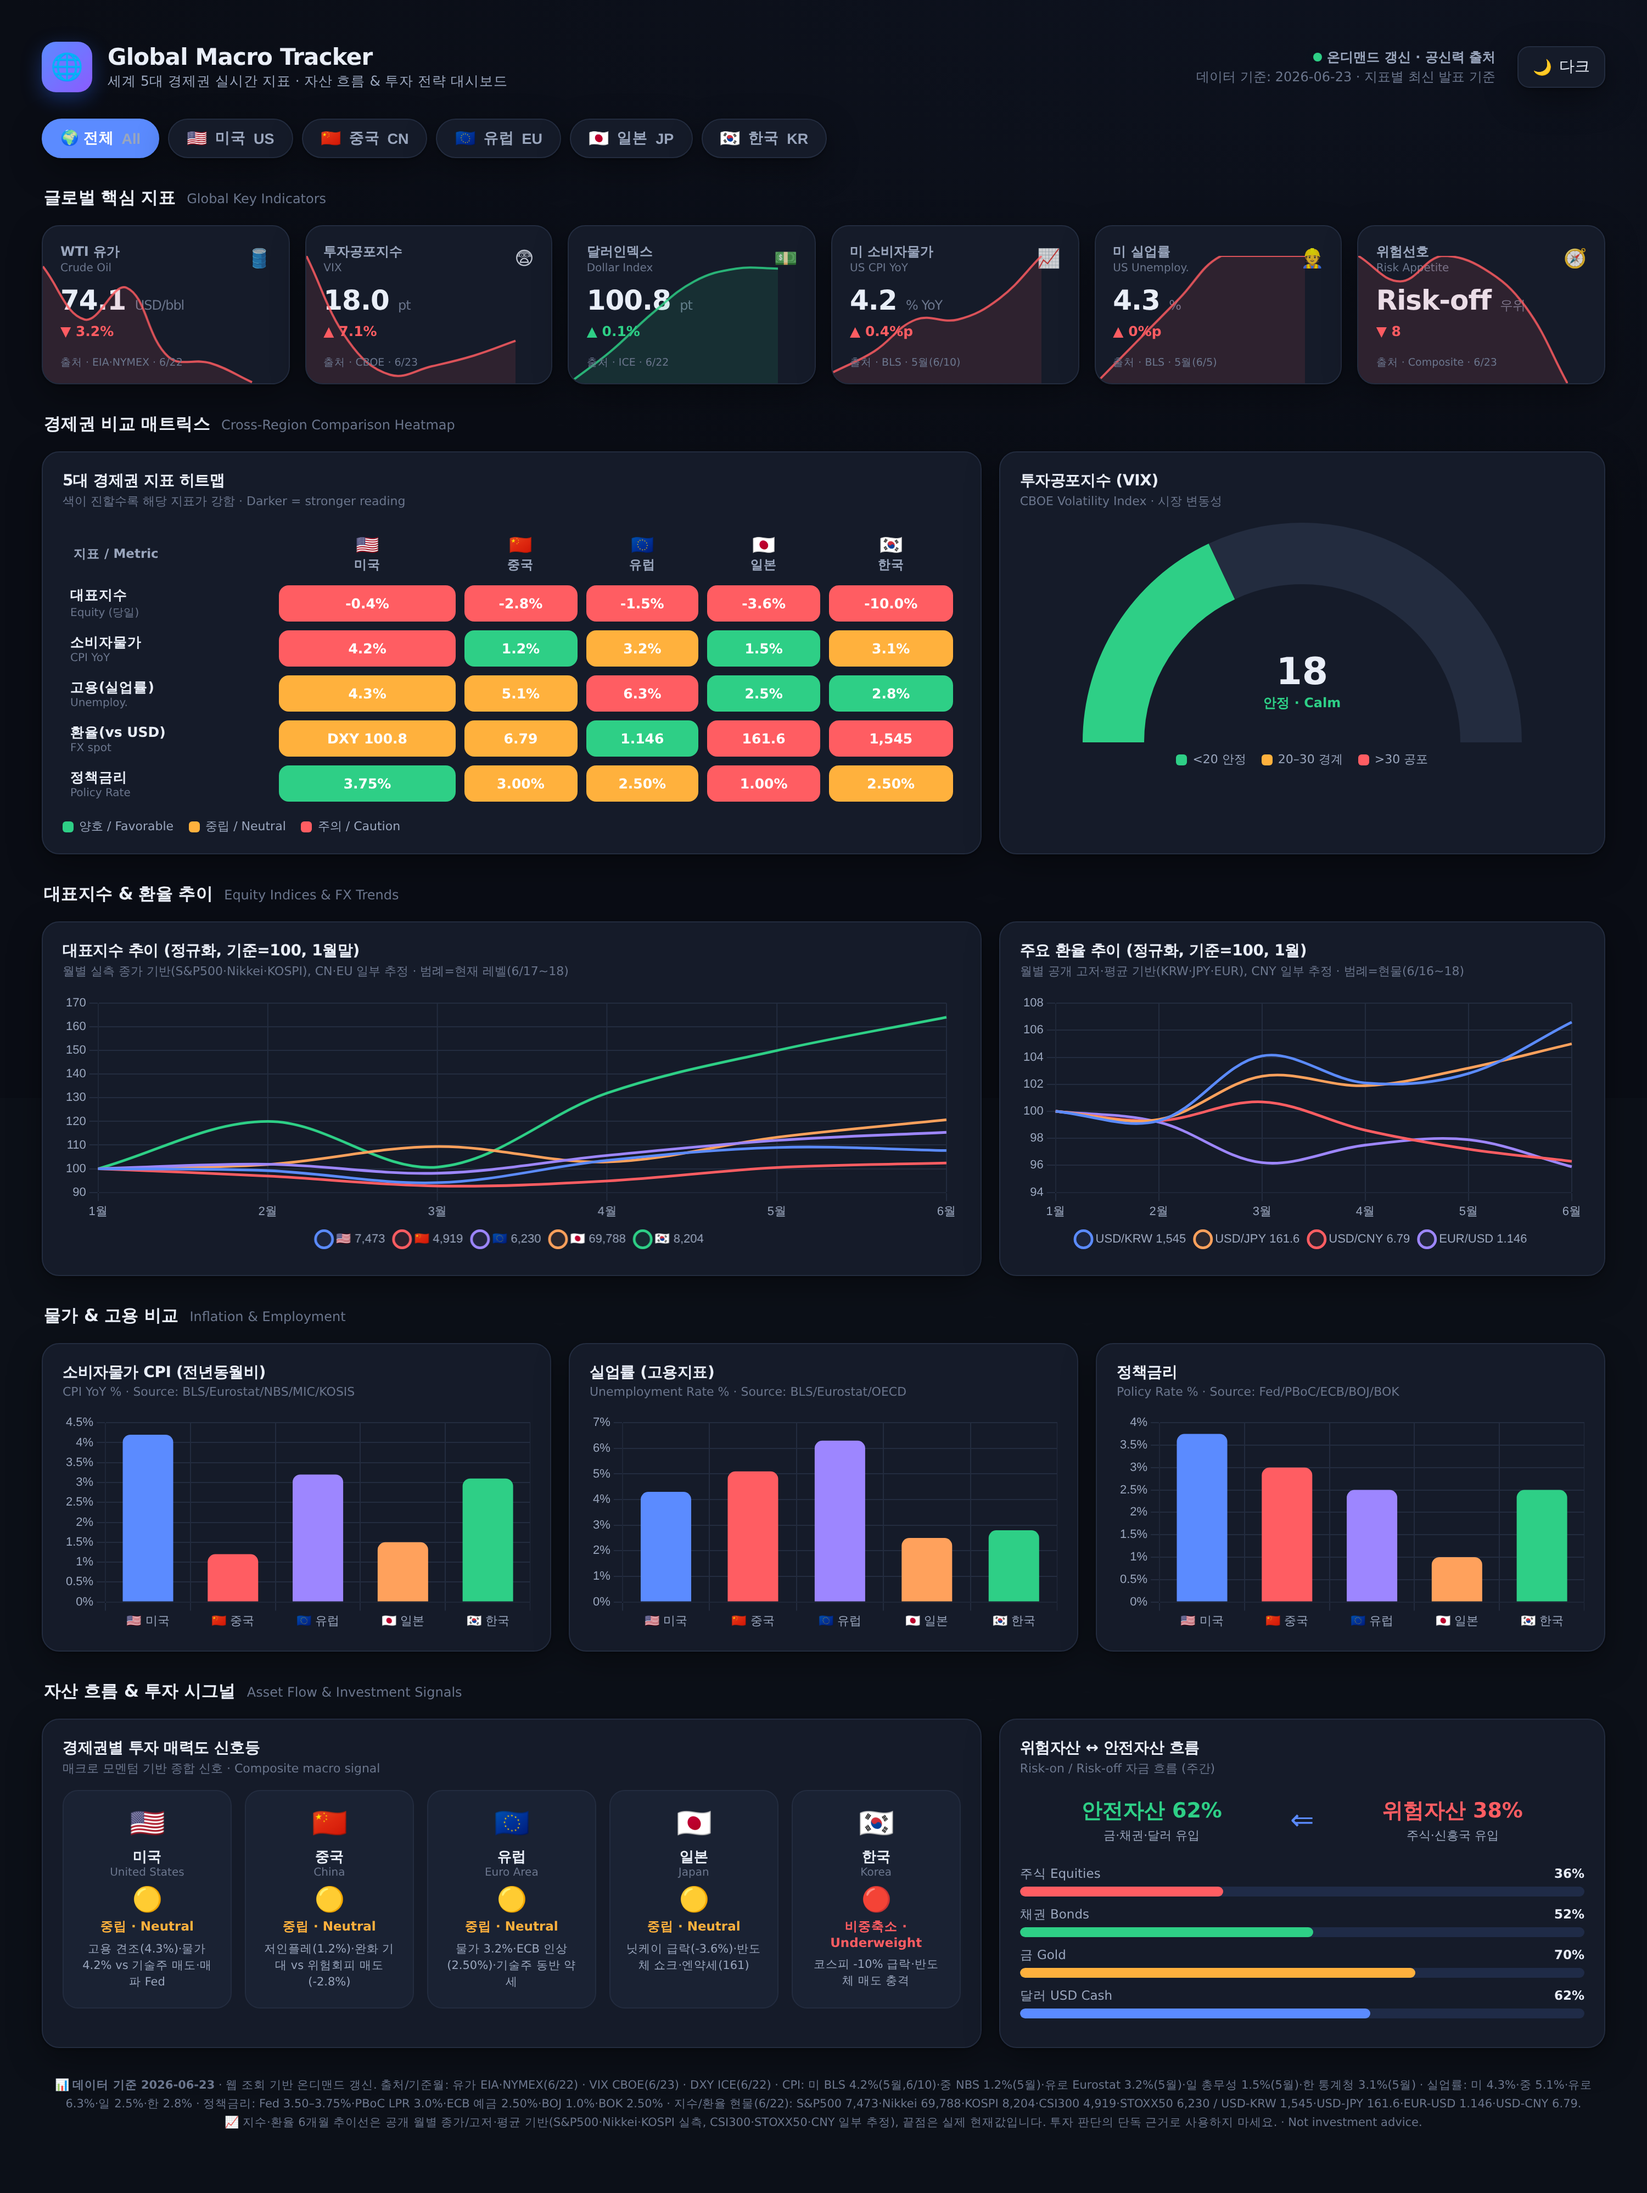
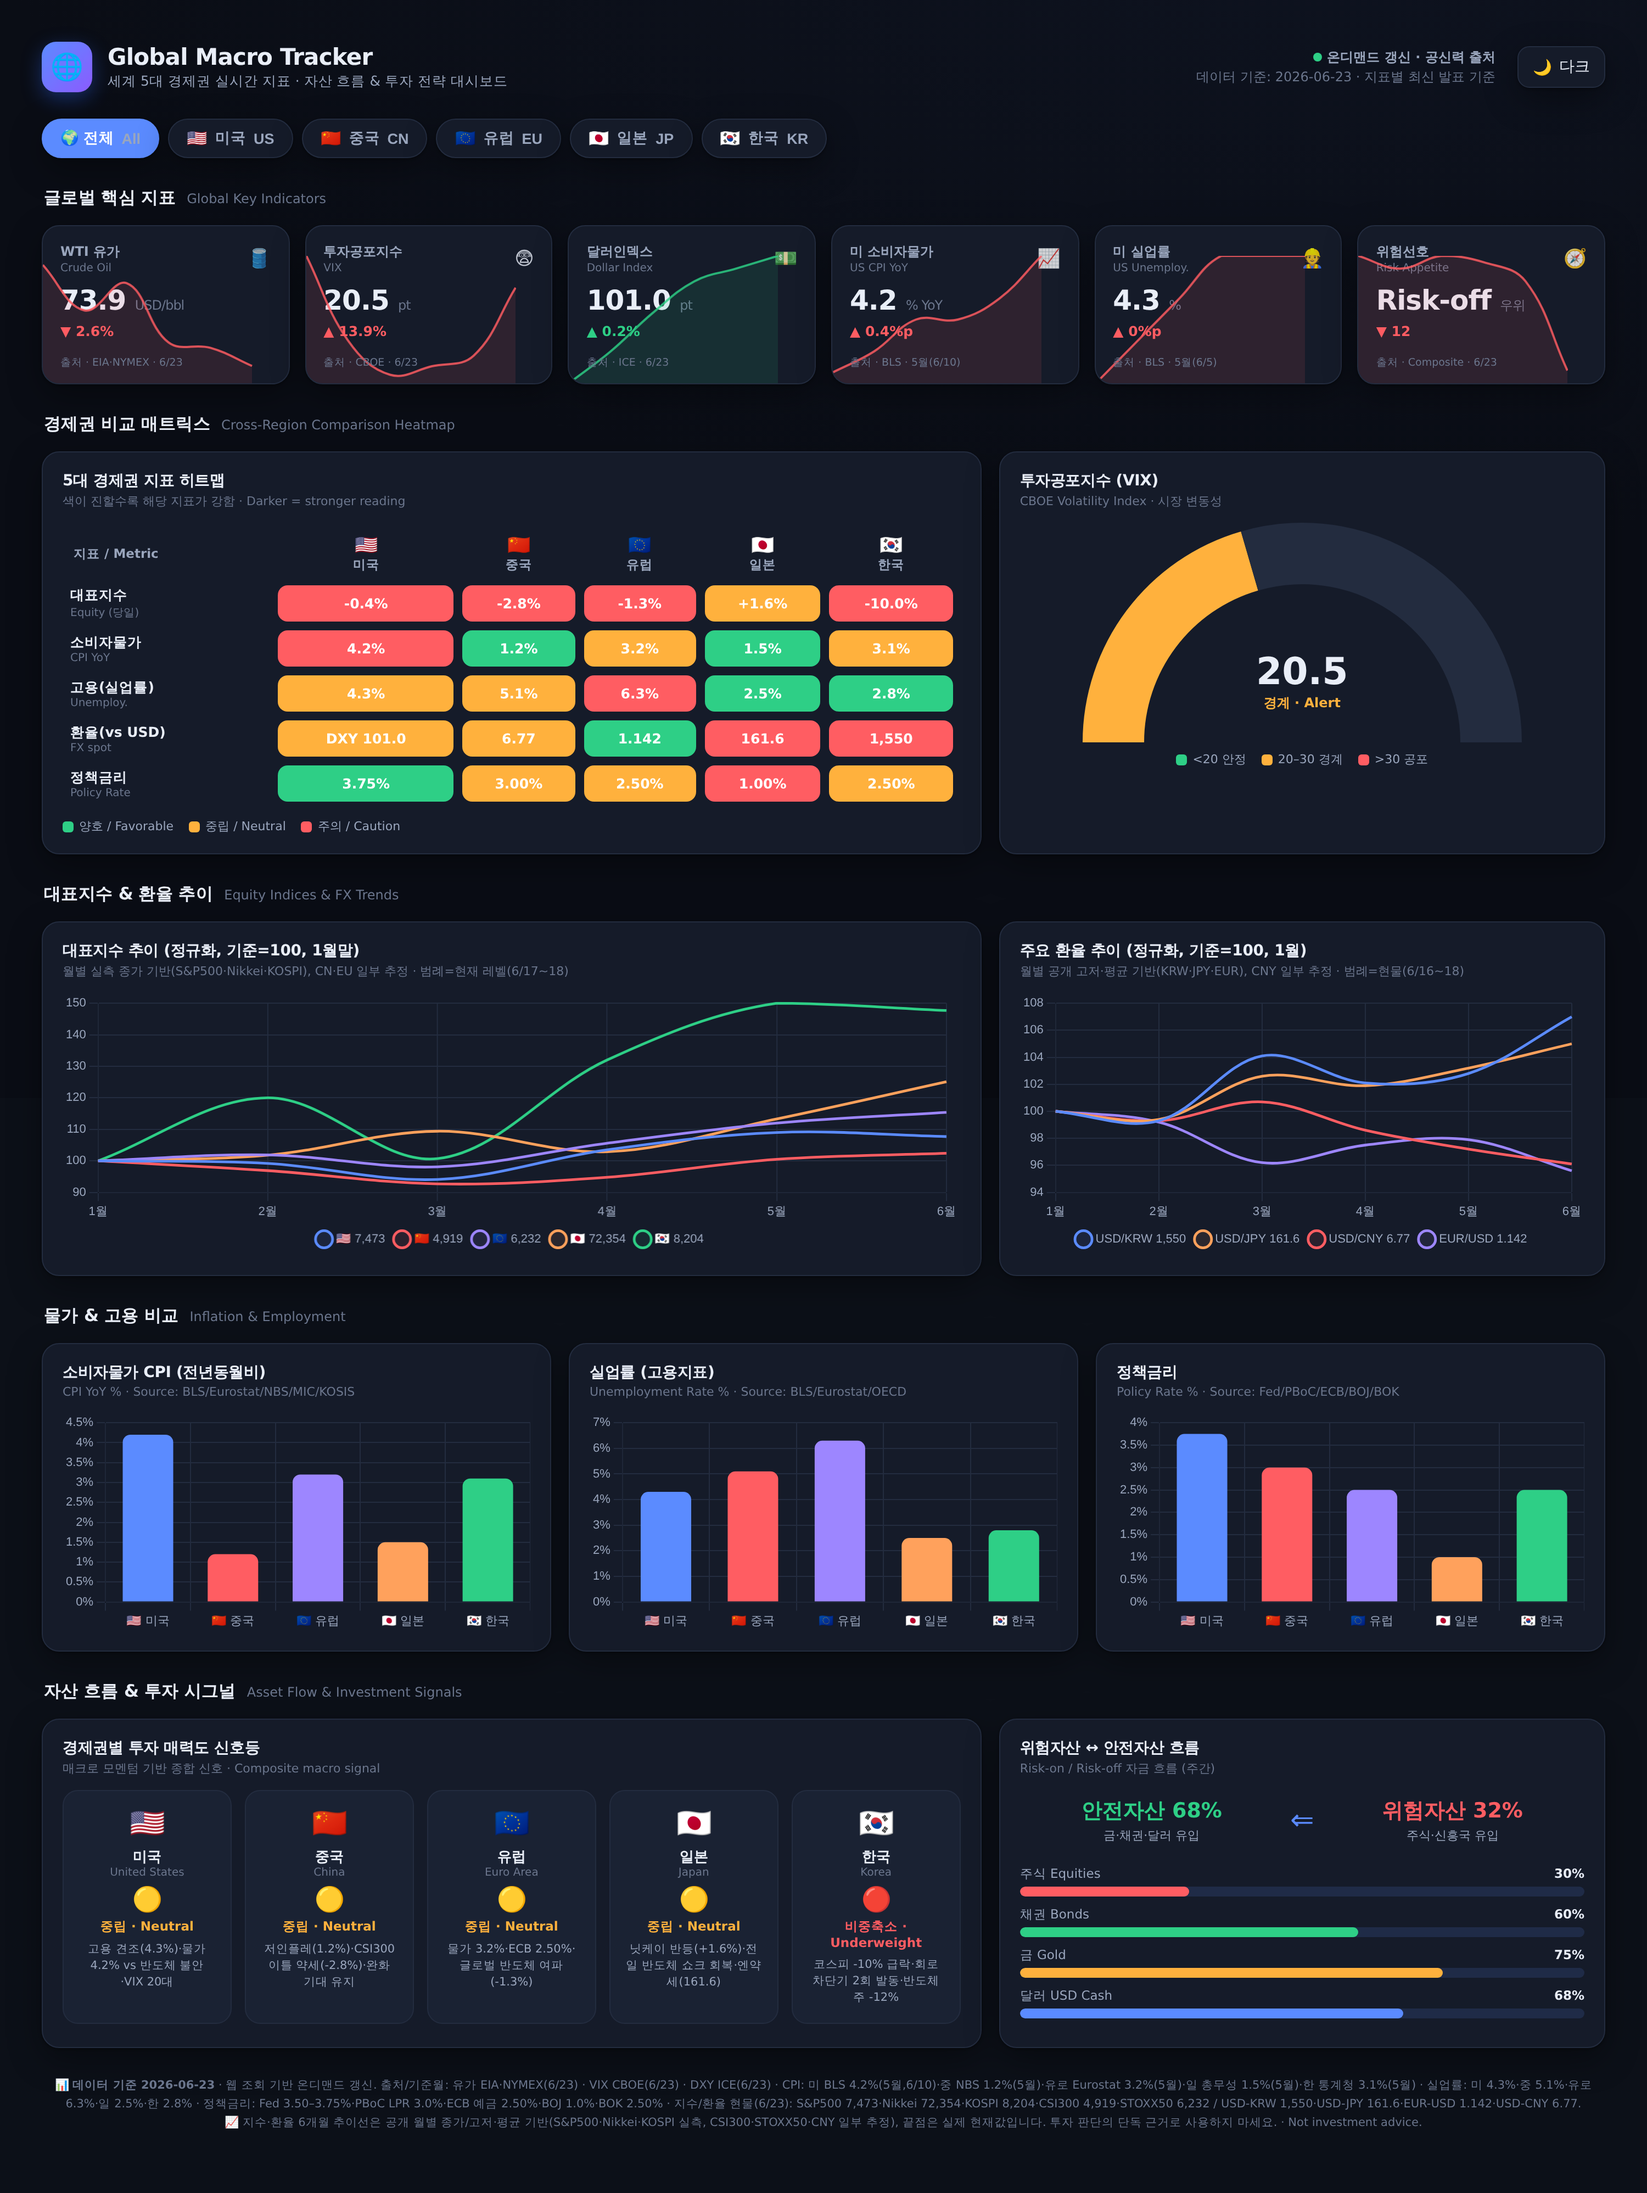
dashboard: 2026-06-23 데이터 갱신 및 이미지 재렌더링
6/23 글로벌 시장 최신 공신력 수치 반영:
- WTI $73.9(-2.6%) · VIX 20.5(+13.9%) · DXY 101.0(+0.2%)
- Nikkei 72,354(+1.6% 반등) · KOSPI 8,204(-10%, 회로차단기 2회)
- CSI300 4,919(-2.8%) · STOXX50 6,232(-1.3%) · S&P500 7,473(-0.4%)
- USD/KRW 1,550 · EUR/USD 1.142 · USD/CNY 6.77
- 자산 흐름 Risk-off 68% 심화, 시그널 서술 갱신
- mockup-dark.png / mockup-light.png 재렌더링 (콘솔 에러 0)

Claude-Session: https://claude.ai/code/session_01369HY4U9p1trzQrCJoz36K

diff --git a/index.html b/index.html
@@ -330,11 +330,11 @@
 
   <div class="footnote">
     📊 <b>데이터 기준 2026-06-23</b> · 웹 조회 기반 온디맨드 갱신. 출처/기준월:
-    유가 EIA·NYMEX(6/22) · VIX CBOE(6/23) · DXY ICE(6/22) ·
+    유가 EIA·NYMEX(6/23) · VIX CBOE(6/23) · DXY ICE(6/23) ·
     CPI: 미 BLS 4.2%(5월,6/10)·중 NBS 1.2%(5월)·유로 Eurostat 3.2%(5월)·일 총무성 1.5%(5월)·한 통계청 3.1%(5월) ·
     실업률: 미 4.3%·중 5.1%·유로 6.3%·일 2.5%·한 2.8% ·
     정책금리: Fed 3.50–3.75%·PBoC LPR 3.0%·ECB 예금 2.50%·BOJ 1.0%·BOK 2.50% ·
-    지수/환율 현물(6/22): S&amp;P500 7,473·Nikkei 69,788·KOSPI 8,204·CSI300 4,919·STOXX50 6,230 / USD-KRW 1,545·USD-JPY 161.6·EUR-USD 1.146·USD-CNY 6.79.<br/>
+    지수/환율 현물(6/23): S&amp;P500 7,473·Nikkei 72,354·KOSPI 8,204·CSI300 4,919·STOXX50 6,232 / USD-KRW 1,550·USD-JPY 161.6·EUR-USD 1.142·USD-CNY 6.77.<br/>
     📈 지수·환율 6개월 추이선은 공개 월별 종가/고저·평균 기반(S&amp;P500·Nikkei·KOSPI 실측, CSI300·STOXX50·CNY 일부 추정), 끝점은 실제 현재값입니다. 투자 판단의 단독 근거로 사용하지 마세요. · Not investment advice.
   </div>
 </div>
@@ -358,51 +358,51 @@ const REGIONS = {
 const DATA = {
   // 글로벌 KPI 카드 — 2026-06 공신력 출처 실측치
   kpi: [
-    { id:'wti',  label:'WTI 유가',     en:'Crude Oil',     icon:'🛢', val:'74.1', unit:'USD/bbl', chg:-3.2, src:'EIA·NYMEX · 6/22',
-      spark:[85,80,83,76.5,75.9,74.1] },
-    { id:'vix',  label:'투자공포지수',  en:'VIX',           icon:'😨', val:'18.0', unit:'pt', chg:+7.1, src:'CBOE · 6/23', invert:true,
-      spark:[22,18,16.4,16.8,17.3,18.0] },
-    { id:'dxy',  label:'달러인덱스',    en:'Dollar Index',  icon:'💵', val:'100.8',unit:'pt', chg:+0.1, src:'ICE · 6/22',
-      spark:[99,99.5,100.1,100.6,100.8,100.8] },
+    { id:'wti',  label:'WTI 유가',     en:'Crude Oil',     icon:'🛢', val:'73.9', unit:'USD/bbl', chg:-2.6, src:'EIA·NYMEX · 6/23',
+      spark:[85,80,83,76.5,75.9,73.9] },
+    { id:'vix',  label:'투자공포지수',  en:'VIX',           icon:'😨', val:'20.5', unit:'pt', chg:+13.9, src:'CBOE · 6/23', invert:true,
+      spark:[22,18,16.4,16.8,17.3,20.5] },
+    { id:'dxy',  label:'달러인덱스',    en:'Dollar Index',  icon:'💵', val:'101.0',unit:'pt', chg:+0.2, src:'ICE · 6/23',
+      spark:[99,99.5,100.1,100.6,100.8,101.0] },
     { id:'cpi',  label:'미 소비자물가', en:'US CPI YoY',    icon:'📈', val:'4.2', unit:'% YoY', chg:+0.4, src:'BLS · 5월(6/10)', invert:true,
       spark:[3.1,3.3,3.6,3.6,3.8,4.2] },
     { id:'emp',  label:'미 실업률',     en:'US Unemploy.',  icon:'👷', val:'4.3', unit:'%', chg:0.0, src:'BLS · 5월(6/5)', invert:true,
       spark:[4.0,4.1,4.2,4.3,4.3,4.3] },
-    { id:'risk', label:'위험선호',      en:'Risk Appetite', icon:'🧭', val:'Risk-off',unit:'우위', chg:-8.0, src:'Composite · 6/23',
-      spark:[50,48,50,49,46,40] },
+    { id:'risk', label:'위험선호',      en:'Risk Appetite', icon:'🧭', val:'Risk-off',unit:'우위', chg:-12.0, src:'Composite · 6/23',
+      spark:[50,48,50,49,46,32] },
   ],
   // 히트맵: 지표 × 경제권. score 0~100(높을수록 강/양호), d=표시값(실측)
   matrix: [
     { metric:'대표지수', en:'Equity (당일)', fmt:'%',
-      cells:{ US:{d:'-0.4%',s:45}, CN:{d:'-2.8%',s:25}, EU:{d:'-1.5%',s:32}, JP:{d:'-3.6%',s:18}, KR:{d:'-10.0%',s:8} } },
+      cells:{ US:{d:'-0.4%',s:44}, CN:{d:'-2.8%',s:25}, EU:{d:'-1.3%',s:30}, JP:{d:'+1.6%',s:62}, KR:{d:'-10.0%',s:8} } },
     { metric:'소비자물가', en:'CPI YoY', fmt:'',
       cells:{ US:{d:'4.2%',s:35}, CN:{d:'1.2%',s:85}, EU:{d:'3.2%',s:50}, JP:{d:'1.5%',s:78}, KR:{d:'3.1%',s:52} } },
     { metric:'고용(실업률)', en:'Unemploy.', fmt:'',
       cells:{ US:{d:'4.3%',s:68}, CN:{d:'5.1%',s:55}, EU:{d:'6.3%',s:45}, JP:{d:'2.5%',s:92}, KR:{d:'2.8%',s:88} } },
     { metric:'환율(vs USD)', en:'FX spot', fmt:'',
-      cells:{ US:{d:'DXY 100.8',s:60}, CN:{d:'6.79',s:67}, EU:{d:'1.146',s:73}, JP:{d:'161.6',s:32}, KR:{d:'1,545',s:38} } },
+      cells:{ US:{d:'DXY 101.0',s:58}, CN:{d:'6.77',s:66}, EU:{d:'1.142',s:72}, JP:{d:'161.6',s:32}, KR:{d:'1,550',s:36} } },
     { metric:'정책금리', en:'Policy Rate', fmt:'',
       cells:{ US:{d:'3.75%',s:70}, CN:{d:'3.00%',s:62}, EU:{d:'2.50%',s:53}, JP:{d:'1.00%',s:40}, KR:{d:'2.50%',s:58} } },
   ],
-  // 대표지수: 월별 실측 종가 기반 정규화(기준=100, 1월말). 끝값 라벨=실제 현재 레벨(6/22)
-  // 6/22 반도체발 글로벌 매도: KOSPI -10%·Nikkei -3.6%·CSI300 -2.8% 급락 반영
+  // 대표지수: 월별 실측 종가 기반 정규화(기준=100, 1월말). 끝값 라벨=실제 현재 레벨(6/23)
+  // 6/22 반도체발 글로벌 매도→6/23 KOSPI -10%·회로차단기 발동, Nikkei +1.6% 반등
   indices: {
     labels: MONTHS,
-    levels: { US:'7,473', CN:'4,919', EU:'6,230', JP:'69,788', KR:'8,204' },
+    levels: { US:'7,473', CN:'4,919', EU:'6,232', JP:'72,354', KR:'8,204' },
     series: {
       US:[100,99.2,94.1,103.5,109.0,107.7], CN:[100,96.9,92.7,94.8,100.5,102.4],
-      EU:[100,101.9,98.1,105.6,112.0,115.4], JP:[100,101.8,109.4,102.9,113.3,120.7],
-      KR:[100,120.0,100.7,132.0,150.0,164.1],
+      EU:[100,101.9,98.1,105.6,112.0,115.4], JP:[100,101.8,109.4,102.9,113.3,125.1],
+      KR:[100,120.0,100.7,132.0,150.0,147.7],
     }
   },
-  // 환율: 월별 정규화(기준=100, 1월). 끝값 라벨=실제 현물(6/22)
-  // KRW·JPY·EUR 공개 고저/평균 기반, CNY 일부 추정
+  // 환율: 월별 정규화(기준=100, 1월). 끝값 라벨=실제 현물(6/23)
+  // KRW·JPY·EUR 공개 고저/평균 기반, CNY 일부 추정. KOSPI 충격 후 원화 약세 반영
   fx: {
     labels: MONTHS,
-    levels: { 'USD/KRW':'1,545', 'USD/JPY':'161.6', 'USD/CNY':'6.79', 'EUR/USD':'1.146' },
+    levels: { 'USD/KRW':'1,550', 'USD/JPY':'161.6', 'USD/CNY':'6.77', 'EUR/USD':'1.142' },
     series: {
-      'USD/KRW':[100,99.3,104.1,102.1,102.8,106.6], 'USD/JPY':[100,99.4,102.6,101.9,103.2,105.0],
-      'USD/CNY':[100,99.3,100.7,98.6,97.2,96.3], 'EUR/USD':[100,99.2,96.2,97.5,97.9,95.9],
+      'USD/KRW':[100,99.3,104.1,102.1,102.8,107.0], 'USD/JPY':[100,99.4,102.6,101.9,103.2,105.0],
+      'USD/CNY':[100,99.3,100.7,98.6,97.2,96.1], 'EUR/USD':[100,99.2,96.2,97.5,97.9,95.6],
     }
   },
   // CPI YoY 실측 (최신 발표월)
@@ -411,19 +411,19 @@ const DATA = {
   emp: { US:4.3, CN:5.1, EU:6.3, JP:2.5, KR:2.8 },
   // 정책금리 실측
   rate:{ US:3.75, CN:3.00, EU:2.50, JP:1.00, KR:2.50 },
-  vix: 18.0,
+  vix: 20.5,
   // 투자 시그널 신호등 — 데이터 기반 종합 판단
   signals: {
-    US:{ light:'🟡', verdict:'중립',     vEn:'Neutral',    note:'고용 견조(4.3%)·물가 4.2% vs 기술주 매도·매파 Fed' },
-    CN:{ light:'🟡', verdict:'중립',     vEn:'Neutral',    note:'저인플레(1.2%)·완화 기대 vs 위험회피 매도(-2.8%)' },
-    EU:{ light:'🟡', verdict:'중립',     vEn:'Neutral',    note:'물가 3.2%·ECB 인상(2.50%)·기술주 동반 약세' },
-    JP:{ light:'🟡', verdict:'중립',     vEn:'Neutral',    note:'닛케이 급락(-3.6%)·반도체 쇼크·엔약세(161)' },
-    KR:{ light:'🔴', verdict:'비중축소', vEn:'Underweight',note:'코스피 -10% 급락·반도체 매도 충격' },
+    US:{ light:'🟡', verdict:'중립',     vEn:'Neutral',    note:'고용 견조(4.3%)·물가 4.2% vs 반도체 불안·VIX 20대' },
+    CN:{ light:'🟡', verdict:'중립',     vEn:'Neutral',    note:'저인플레(1.2%)·CSI300 이틀 약세(-2.8%)·완화 기대 유지' },
+    EU:{ light:'🟡', verdict:'중립',     vEn:'Neutral',    note:'물가 3.2%·ECB 2.50%·글로벌 반도체 여파(-1.3%)' },
+    JP:{ light:'🟡', verdict:'중립',     vEn:'Neutral',    note:'닛케이 반등(+1.6%)·전일 반도체 쇼크 회복·엔약세(161.6)' },
+    KR:{ light:'🔴', verdict:'비중축소', vEn:'Underweight',note:'코스피 -10% 급락·회로차단기 2회 발동·반도체주 -12%' },
   },
-  // 자산 흐름 (% 자금흐름 강도) — 6/22 반도체발 글로벌 매도로 안전자산 쏠림 심화
-  flow: { riskOn: 38, riskOff: 62,
-    bars:[ {k:'주식 Equities', v:36, c:'var(--up)'}, {k:'채권 Bonds', v:52, c:'var(--down)'},
-           {k:'금 Gold', v:70, c:'var(--warn)'}, {k:'달러 USD Cash', v:62, c:'var(--accent)'} ] }
+  // 자산 흐름 (% 자금흐름 강도) — 6/23 KOSPI -10%·VIX 20대 진입으로 안전자산 쏠림 심화
+  flow: { riskOn: 32, riskOff: 68,
+    bars:[ {k:'주식 Equities', v:30, c:'var(--up)'}, {k:'채권 Bonds', v:60, c:'var(--down)'},
+           {k:'금 Gold', v:75, c:'var(--warn)'}, {k:'달러 USD Cash', v:68, c:'var(--accent)'} ] }
 };
 
 /* ===================== THEME ===================== */
